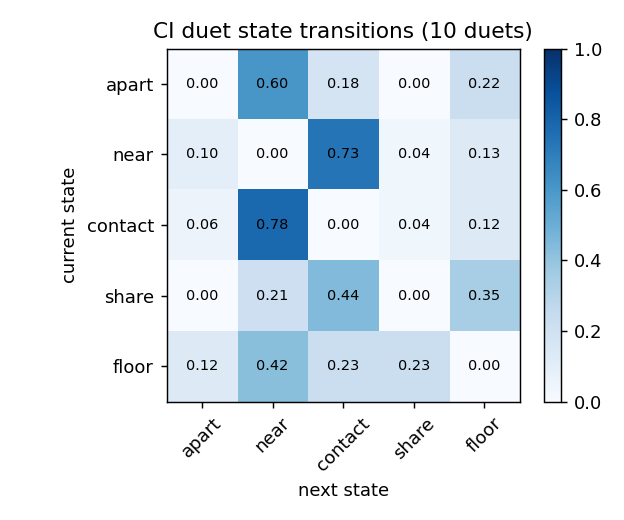
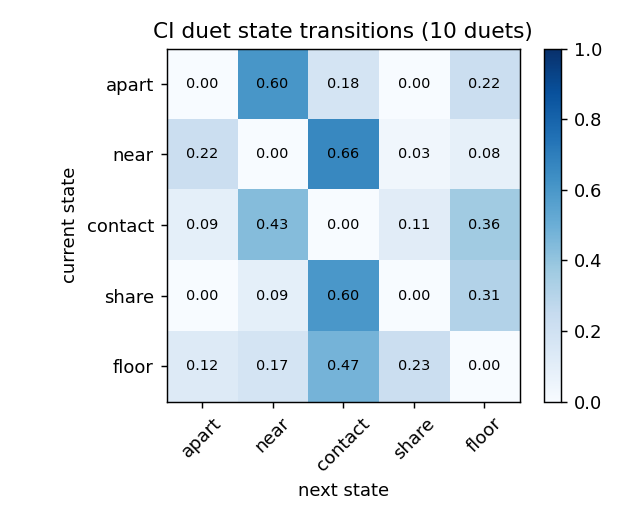
feat: hand check of contact releases and separation rule for the state grammar

diff --git a/hand_check_contacts.py b/hand_check_contacts.py
@@ -1,0 +1,90 @@
+"""
+Hand check of the contact detector's releases (state grammar: contact dwell ~1.3 s). Is CI touch-release
+cycling that fast, or do detection problems (a keypoint jumping, a dancer briefly lost, occlusion) chop one
+long contact into several short ones?
+
+For a stratified random sample of contact -> near/apart transitions (3 per duet, 30 total) the sheet shows
+five frames around the release (-0.6, -0.2, +0.2, +0.6, +1.0 s) with both skeletons, the frame state and the
+nearest-segment distance in body lengths. Each row is judged by eye and the verdict written to
+outputs/grammar/contact_check.csv (column `verdict`: real / false_release / unclear, plus a note).
+
+Round 1 (seed 0, 3 per duet) chose the separation rule SEP_BL in state_grammar.py; round 2 (seed 1, 2 per duet,
+run after the rule) is the out-of-sample check, verdicts in outputs/grammar/contact_check_v2.csv.
+
+Outputs: outputs/grammar/{contact_check_sample.csv, check_releases_*.jpg (gitignored)}
+"""
+from __future__ import annotations
+
+import glob
+from pathlib import Path
+import numpy as np
+import pandas as pd
+import cv2
+
+import state_grammar as SG
+from rolling_contact import draw
+
+OUT = SG.OUT
+OFFSETS = (-0.6, -0.2, 0.2, 0.6, 1.0)
+PER_CLIP = 3
+
+
+def releases(vid):
+    st, fps, dmin, both = SG.frame_states(vid, return_dist=True)
+    out, prev, start = [], None, 0
+    for i, x in enumerate(st):
+        if x != prev:
+            if prev == "contact" and x in ("near", "apart") and (i - start) >= 0.3 * fps:
+                out.append(dict(video=vid, release_s=i / fps, contact_dur_s=(i - start) / fps, next=x))
+            prev, start = x, i
+    return out, st, fps, dmin
+
+
+def tile(vid, cap, tr, fi, label, w=260):
+    cap.set(1, fi); ok, f = cap.read()
+    if not ok:
+        return np.zeros((int(w * 0.6), w, 3), np.uint8)
+    for j, col in ((0, (255, 160, 0)), (1, (0, 140, 255))):
+        if tr.present[fi, j]:
+            draw(f, tr.kpts[fi, j], col)
+    f = cv2.resize(f, (w, int(w * f.shape[0] / f.shape[1])))
+    cv2.rectangle(f, (0, 0), (w, 22), (0, 0, 0), -1)
+    cv2.putText(f, label, (4, 16), cv2.FONT_HERSHEY_SIMPLEX, 0.45, (255, 255, 255), 1)
+    return f
+
+
+def main(seed: int = 0, per_clip: int = PER_CLIP, tag: str = ""):
+    from src.io.tracks import load_tracks
+    vids = pd.read_csv(OUT / "per_clip.csv").video.tolist()
+    rng = np.random.default_rng(seed); rows = []
+    for v in vids:
+        rel, st, fps, dmin = releases(v)
+        pick = rng.choice(len(rel), min(per_clip, len(rel)), replace=False) if rel else []
+        tr = load_tracks(f"outputs/{v}/{v}_tracks.npz")
+        vp = (sorted(glob.glob(f"videos/{v}.*")) + sorted(glob.glob(f"videos/full/{v}.*")))[0]
+        cap = cv2.VideoCapture(vp)
+        for k in sorted(pick):
+            r = rel[k]; r["n_releases_clip"] = len(rel)
+            strip = []
+            for o in OFFSETS:
+                fi = int(np.clip(round((r["release_s"] + o) * fps), 0, len(st) - 1))
+                d = dmin[fi]
+                strip.append(tile(v, cap, tr, fi, f"{o:+.1f}s {st[fi] or '-'} d={d:.2f}" if np.isfinite(d) else f"{o:+.1f}s {st[fi] or '-'}"))
+            r["strip"] = np.hstack(strip); rows.append(r)
+        cap.release()
+    df = pd.DataFrame([{k: x for k, x in r.items() if k != "strip"} for r in rows])
+    df.insert(0, "id", range(len(df))); df["verdict"] = ""; df["note"] = ""
+    df.to_csv(OUT / f"contact_check_sample{tag}.csv", index=False)
+    for p in range(0, len(rows), 6):
+        S = [cv2.putText(r["strip"].copy(), f"#{p + i} {r['video'][:11]} t={r['release_s']:.1f}s dur={r['contact_dur_s']:.1f}s",
+                         (4, r["strip"].shape[0] - 6), cv2.FONT_HERSHEY_SIMPLEX, 0.5, (0, 255, 255), 1) for i, r in enumerate(rows[p:p + 6])]
+        W = max(x.shape[1] for x in S)
+        cv2.imwrite(str(OUT / f"check_releases{tag}_{p // 6}.jpg"),
+                    np.vstack([cv2.copyMakeBorder(x, 0, 6, 0, W - x.shape[1], cv2.BORDER_CONSTANT) for x in S]), [cv2.IMWRITE_JPEG_QUALITY, 80])
+    print(df.to_string())
+
+
+if __name__ == "__main__":
+    import sys
+    # second round (after SEP_BL was chosen on the first): python hand_check_contacts.py 1 2 _v2
+    main(int(sys.argv[1]), int(sys.argv[2]), sys.argv[3]) if len(sys.argv) > 3 else main()

diff --git a/state_grammar.py b/state_grammar.py
@@ -30,9 +30,10 @@ from src.analysis import describe as D
 OUT = Path("outputs/grammar"); OUT.mkdir(parents=True, exist_ok=True)
 STATES = ["apart", "near", "contact", "share", "floor"]
 HYST_OUT = 0.40
+SEP_BL = 0.5      # a release counts only if the bodies get this far apart before touching again (hand check, AUDIT 43)
 
 
-def frame_states(vid: str):
+def frame_states(vid: str, return_dist: bool = False):
     tr = load_tracks(f"outputs/{vid}/{vid}_tracks.npz"); fps = float(tr.meta["fps"])
     kA, kB = tr.kpts[:, 0].astype(float), tr.kpts[:, 1].astype(float); both = tr.present.all(1)
     sA, sB = np.nanmedian(D.trunk_len(kA)), np.nanmedian(D.trunk_len(kB)); s = (sA + sB) / 2
@@ -47,12 +48,21 @@ def frame_states(vid: str):
         on = (d[i] < 0.25 and gate[i]) if not on else (d[i] <= HYST_OUT)
         contact[i] = on
     contact = median_filter(contact, size=5).astype(bool)
+    # merge contact episodes whose gap never reaches SEP_BL: in the hand check (outputs/grammar/contact_check.csv)
+    # 14/15 false releases (flicker, a dancer lost in an embrace or carry) stayed <= 0.48 bl, all 9 real ones >= 0.54
+    if SEP_BL:
+        idx = np.flatnonzero(contact)
+        for a, b in zip(idx[:-1], idx[1:]):
+            if b - a > 1 and np.nanmax(np.r_[dmin[a + 1:b], 0]) <= SEP_BL:
+                contact[a + 1:b] = True
     share = median_filter(np.nan_to_num(np.abs(D.aerial_support(kA, kB, sA, sB, contact))) > 0, size=5).astype(bool)
     floor = (np.nan_to_num(D.level(kA, sA), nan=9) < 0.6) | (np.nan_to_num(D.level(kB, sB), nan=9) < 0.6)
     st = np.where(share, "share", np.where(floor, "floor", np.where(contact, "contact",
                   np.where(np.nan_to_num(dmin, nan=99) < 1.0, "near", "apart")))).astype(object)
     st[~both | ~np.isfinite(dmin)] = None
     ser = pd.Series(st).ffill(limit=int(fps))          # bridge detection gaps <= 1 s
+    if return_dist:
+        return ser.to_numpy(), fps, dmin, both
     return ser.to_numpy(), fps
 
 
@@ -111,7 +121,7 @@ def main(hyst_out: float = 0.40):
           "States per frame (see docstring); detection gaps <= 1 s bridged; episodes >= 0.3 s.\n",
           "## Per duet\n", pc.round(2).to_markdown(index=False),
           f"\n\n## Pooled transition probabilities (row = current state, {int(T_all.values.sum())} transitions)\n", P_all.to_markdown(),
-          "\n\nCaveats: 'contact' and 'share' are 2-D detectors validated by eye (AUDIT 38-40); A/B identity does not matter "
+          "\n\nCaveats: 'contact' and 'share' are 2-D detectors validated by eye (AUDIT 38-40); releases need SEP_BL separation (hand check, AUDIT 43); A/B identity does not matter "
           "here (states are symmetric)."]
     (OUT / "report.md").write_text("\n".join(md)); print("\n".join(md[2:5]))
 

diff --git a/outputs/grammar/report.md b/outputs/grammar/report.md
@@ -6,27 +6,27 @@ States per frame (see docstring); detection gaps <= 1 s bridged; episodes >= 0.3
 
 | video            |   minutes |   episodes |   share_apart |   dwell_apart_s |   share_near |   dwell_near_s |   share_contact |   dwell_contact_s |   share_share |   dwell_share_s |   share_floor |   dwell_floor_s |   next_state_entropy_bits |   transitions_per_min |
 |:-----------------|----------:|-----------:|--------------:|----------------:|-------------:|---------------:|----------------:|------------------:|--------------:|----------------:|--------------:|----------------:|--------------------------:|----------------------:|
-| zQRF2sLK1vY      |      0.88 |         28 |          0.09 |            1.33 |         0.18 |           0.67 |            0.42 |              0.77 |          0.04 |            0.43 |          0.28 |            1.43 |                      1.42 |                 31.97 |
-| kxztAr2tQmE_full |      0.95 |         38 |          0.06 |            3.4  |         0.24 |           0.8  |            0.5  |              0.53 |          0.03 |            0.53 |          0.17 |            1.13 |                      0.95 |                 39.91 |
-| swmrAJkYrlY_full |      3    |         82 |          0.29 |            4.13 |         0.24 |           0.73 |            0.46 |              1.8  |          0.01 |            0.6  |          0.01 |            0.4  |                      0.72 |                 27.32 |
-| hJQgFDsAms4_full |      5.72 |        158 |          0.03 |            1.3  |         0.32 |           1.13 |            0.35 |              1.07 |          0.02 |            1.03 |          0.29 |            1.47 |                      1.12 |                 27.6  |
-| iOEZ3i9rgYM_full |      3.22 |         62 |          0    |          nan    |         0.19 |           1.07 |            0.66 |              2.3  |          0.02 |            0.37 |          0.13 |            4.33 |                      0.77 |                 19.25 |
-| dGPRMNAECKM_full |      2.38 |         84 |          0.02 |            0.4  |         0.25 |           0.67 |            0.47 |              1.47 |          0.03 |            0.33 |          0.23 |            2.47 |                      1.14 |                 35.28 |
-| Rc9vIJt00vs_full |      3.87 |        142 |          0.03 |            0.9  |         0.36 |           1.07 |            0.39 |              1.17 |          0.04 |            0.8  |          0.17 |            1.07 |                      1.23 |                 36.7  |
-| vinlwkaIW4c_full |      3.15 |        129 |          0.08 |            1.27 |         0.32 |           1    |            0.4  |              1.13 |          0.03 |            0.4  |          0.17 |            1.33 |                      1.25 |                 41    |
-| kMkJpfUGZz8_full |      2.92 |         69 |          0.22 |            3.27 |         0.11 |           0.67 |            0.38 |              1.53 |          0.03 |            0.8  |          0.24 |            0.83 |                      1.45 |                 23.62 |
-| uS1JQ-LY8Fs_full |      5.89 |        146 |          0.28 |            2.4  |         0.23 |           0.8  |            0.37 |              1.53 |          0    |            0.33 |          0.11 |            3.23 |                      0.84 |                 24.78 |
+| zQRF2sLK1vY      |      0.88 |         26 |          0.09 |            1.33 |         0.1  |           0.75 |            0.5  |              0.75 |          0.04 |            0.43 |          0.28 |            1.43 |                      1.46 |                 29.68 |
+| kxztAr2tQmE_full |      0.95 |         25 |          0.06 |            3.4  |         0.12 |           0.8  |            0.62 |              2.2  |          0.03 |            0.53 |          0.17 |            1.13 |                      1.3  |                 26.25 |
+| swmrAJkYrlY_full |      3    |         56 |          0.29 |            4.13 |         0.14 |           0.8  |            0.56 |              2.33 |          0.01 |            0.33 |          0.01 |            0.4  |                      0.98 |                 18.66 |
+| hJQgFDsAms4_full |      5.72 |         94 |          0.03 |            1.3  |         0.08 |           1.2  |            0.59 |              2.33 |          0.02 |            1.03 |          0.29 |            1.47 |                      1.15 |                 16.42 |
+| iOEZ3i9rgYM_full |      3.22 |         25 |          0    |          nan    |         0.05 |           1.2  |            0.8  |              9.33 |          0.02 |            0.37 |          0.13 |            4.33 |                      0.97 |                  7.76 |
+| dGPRMNAECKM_full |      2.38 |         54 |          0.02 |            0.4  |         0.11 |           0.8  |            0.61 |              1.87 |          0.03 |            0.33 |          0.23 |            2.3  |                      1.29 |                 22.68 |
+| Rc9vIJt00vs_full |      3.87 |         93 |          0.03 |            0.9  |         0.13 |           0.8  |            0.62 |              4.07 |          0.05 |            0.8  |          0.17 |            1.13 |                      1.59 |                 24.04 |
+| vinlwkaIW4c_full |      3.15 |         94 |          0.08 |            1.27 |         0.17 |           0.8  |            0.56 |              1.23 |          0.03 |            0.37 |          0.17 |            1.33 |                      1.45 |                 29.87 |
+| kMkJpfUGZz8_full |      2.92 |         54 |          0.22 |            3.27 |         0.06 |           0.7  |            0.43 |              2.97 |          0.04 |            0.8  |          0.24 |            0.83 |                      1.42 |                 18.49 |
+| uS1JQ-LY8Fs_full |      5.89 |         98 |          0.28 |            2.4  |         0.15 |           0.93 |            0.45 |              3.5  |          0    |            0.33 |          0.11 |            3.23 |                      1.01 |                 16.64 |
 
 
-## Pooled transition probabilities (row = current state, 928 transitions)
+## Pooled transition probabilities (row = current state, 609 transitions)
 
 |         |   apart |   near |   contact |   share |   floor |
 |:--------|--------:|-------:|----------:|--------:|--------:|
 | apart   |   0     |  0.603 |     0.176 |   0     |   0.221 |
-| near    |   0.097 |  0     |     0.735 |   0.036 |   0.131 |
-| contact |   0.058 |  0.781 |     0     |   0.036 |   0.125 |
-| share   |   0     |  0.212 |     0.442 |   0     |   0.346 |
-| floor   |   0.125 |  0.425 |     0.225 |   0.225 |   0     |
+| near    |   0.223 |  0     |     0.662 |   0.032 |   0.083 |
+| contact |   0.091 |  0.435 |     0     |   0.11  |   0.364 |
+| share   |   0     |  0.091 |     0.6   |   0     |   0.309 |
+| floor   |   0.125 |  0.175 |     0.475 |   0.225 |   0     |
 
 
-Caveats: 'contact' and 'share' are 2-D detectors validated by eye (AUDIT 38-40); A/B identity does not matter here (states are symmetric).
+Caveats: 'contact' and 'share' are 2-D detectors validated by eye (AUDIT 38-40); releases need SEP_BL separation (hand check, AUDIT 43); A/B identity does not matter here (states are symmetric).

diff --git a/AUDIT.md b/AUDIT.md
@@ -89,3 +89,4 @@ what was changed, and what remains open. The old scripts live in git history (co
 | 40 | Known-answer check against salsa (CoMPAS3D renders, one camera panel, same pipeline; 3 clips): salsa standing 98 %, floor 0 %, weight sharing 0/min, ROLL 0 % — as expected (CI: 71 %, 11 %, 3.2/min, 40 %); hand-involved contacts 57 % vs 40 % in CI, while CI has more foot/leg/head contacts. **Fails**: salsa contact only 27 % and no GRIP bouts, although partners hold hands most of the time — the depth gate rejects arm's-length holds between dancers at different depths in a frontal view. The contact detector is conservative; hand holds need a gate that does not use foot height. | `compare_genres.py`, `outputs/compare_genres/` |
 | 41 | **Rolling vs gripping fails the salsa known-answer check.** After removing the depth gate for limb contacts, salsa contact rises to 74 % (expected: hands held most of the time). But the ROLL label fires on salsa too: 80 % of bouts with contact located in each trunk frame (a held hand moves relative to the trunk when the arm moves), still 60 % with a canonical body-chart surface coordinate folded left/right (CI 43 %). With 17 keypoints there is no body surface: the weighted contact location jumps between forearms, hands and upper arms as partners turn under the arms. Rolling vs gripping is not measurable with 2-D skeletons; the next step is contact on a 3-D body mesh (SMPL-family fit), validated first on CoMPAS3D, which ships SMPL-X meshes. The roll/hold labels are kept in the code but must not be reported. | `rolling_contact.py`, `outputs/compare_genres/` |
 | 42 | **Corpus x3 and a state grammar.** Full-length versions of the duet clips (15 fps) re-audited: 10 usable duets, 20.7 min with both dancers visible (was 6.6); 3 excluded (bystander captures; tilted cinematic camera, which invalidates up/down measures). Duets differ clearly: weight sharing 0.2-6.1 episodes/min, floor 1-24 % of the time, contact 33-87 %. State grammar (apart / near / contact / weight share / floor, gaps <= 1 s bridged): nobody goes from apart straight to weight sharing; weight sharing ends in contact (40 %) or on the floor (35 %); floor leads to weight sharing in 22 %. Contact episodes are short (median ~1.3 s, ~30 state changes/min) and this is not threshold flicker: with hysteresis (leave contact only above 0.25 / 0.40 / 0.60 bl) the median dwell is 1.25 / 1.32 / 1.35 s and contact->near 82 / 78 / 76 %. Whether CI here is touch-release-touch or detection gaps still break contacts must be checked by hand. Per-duet "signature" from the pose vocabulary is still at chance level (2/12 split-half self-matches, chance 1/12). | `state_grammar.py`, `outputs/grammar/`, `outputs/describe/` |
+| 43 | **Hand check of contact releases (finding 42's open question).** 30 random contact -> near/apart transitions (3 per duet), 5 frames each around the release: 9 real separations, 15 false releases (the state flickers back within 0.1-0.7 s while the bodies stay touching, or one dancer is lost in an embrace, carry or floor tangle), 5 unclear, 1 false contact. In every false release but one the nearest-segment distance never exceeded 0.48 bl before contact resumed; in every real one it reached >= 0.54 bl. New rule (`state_grammar.py::SEP_BL`): a release counts only if the bodies get 0.5 bl apart before touching again. Out-of-sample round (20 new releases drawn after the rule was fixed, 2 overlapping round 1): 10 real, 4 false (all detection losses: dark clothing on a dark stage, a carry, a floor tangle, side by side), 6 unclear — 71 % of decidable releases real, up from 38 %. With the rule: median contact dwell 2.3 s (was 1.3), ~21 state changes/min (was ~30); weight sharing ends in contact 60 % / floor 31 %; contact ends near 44 %, floor 36 %, weight share 11 %; still no apart -> weight share. Short touch-release cycles are partly real CI and partly detection; the remaining error is lost detections, which this rule cannot see. | `hand_check_contacts.py`, `outputs/grammar/contact_check.csv`, `outputs/grammar/contact_check_v2.csv` |
